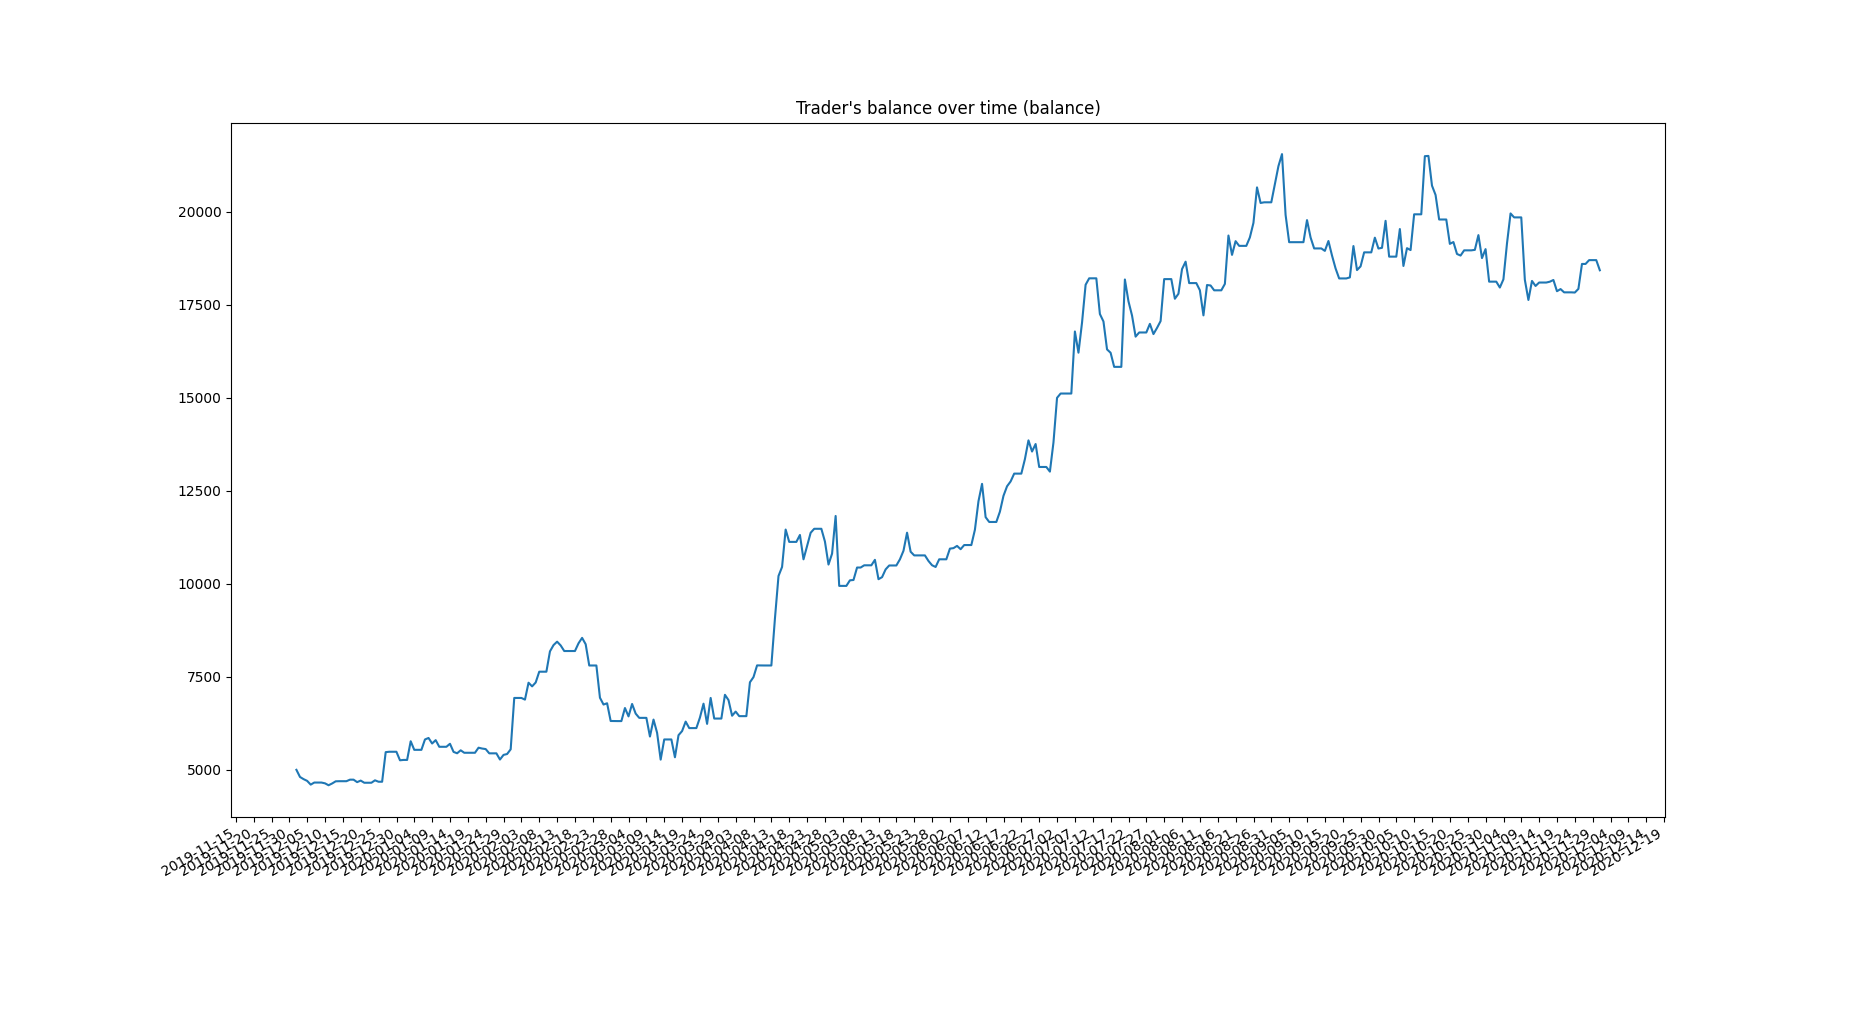
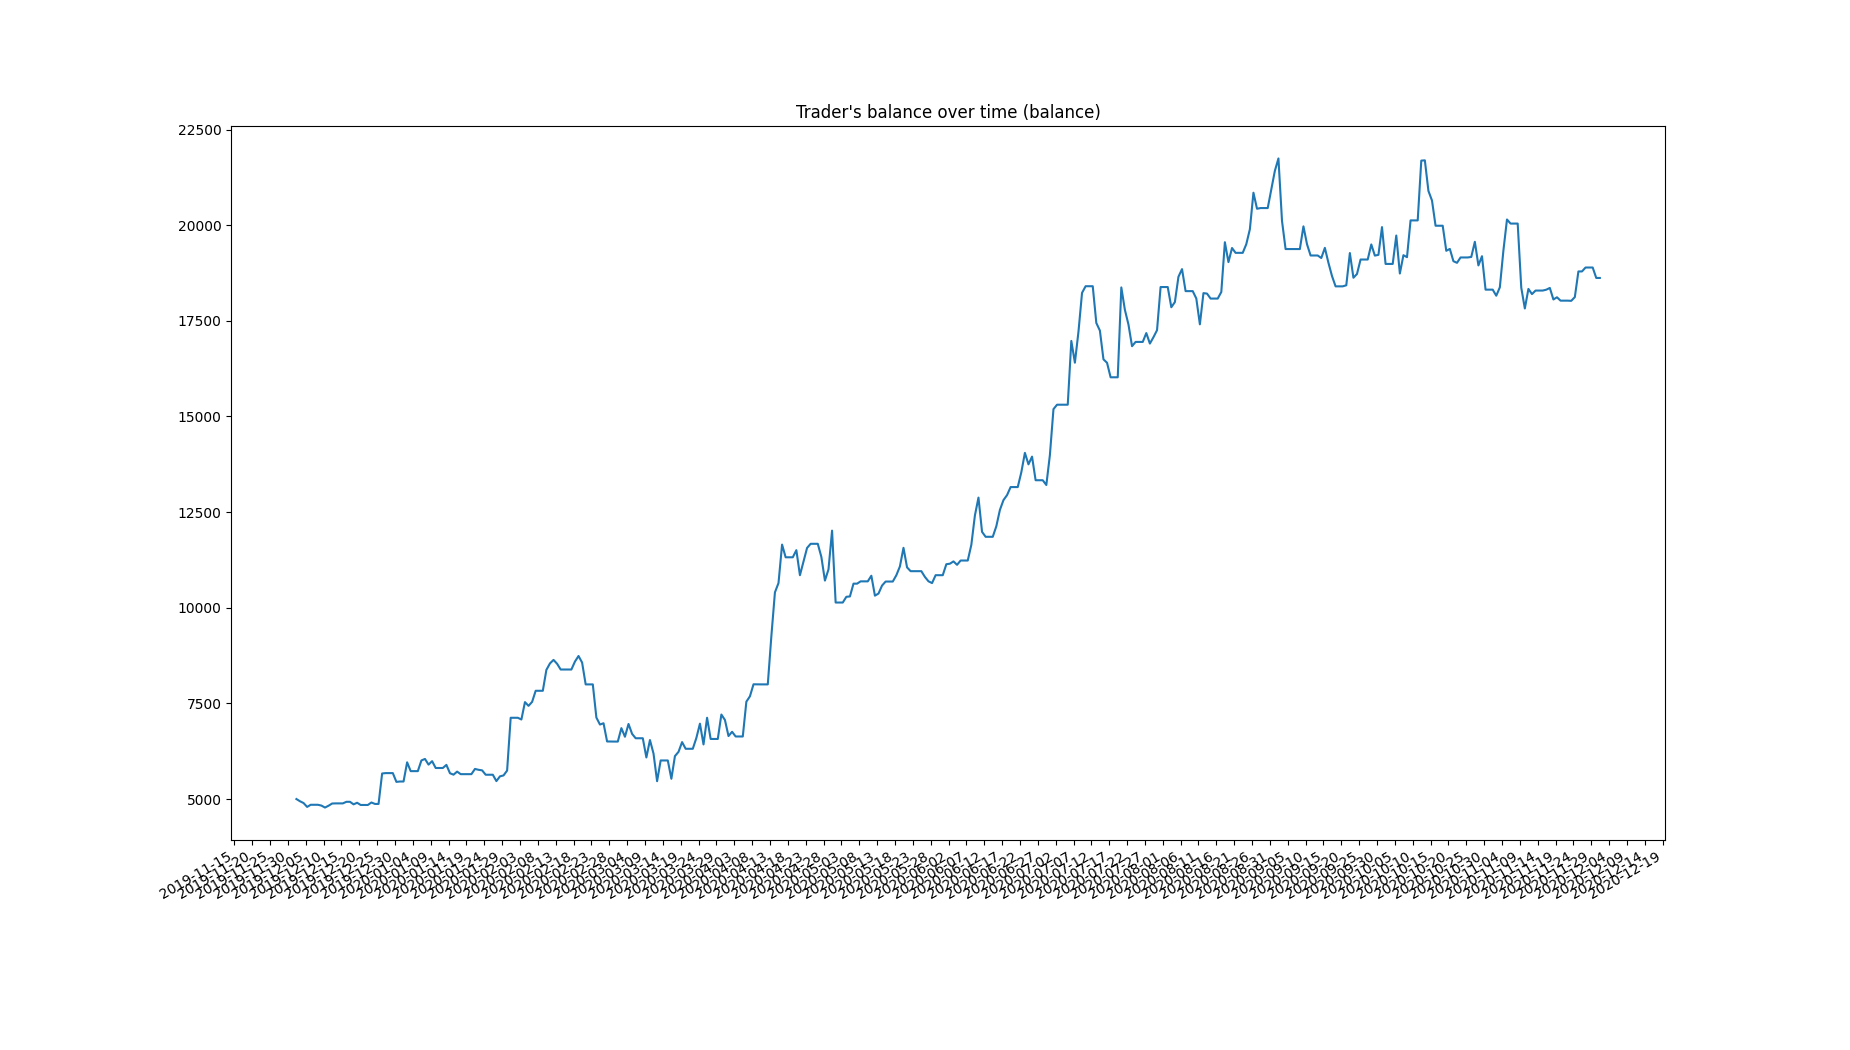
nieuwe grafieken + procenten gefixt

diff --git a/ai_program.py b/ai_program.py
@@ -224,7 +224,7 @@ def main(genomes, config):
         for pair in money:
             dates.append(pair[0])
             moneyz.append(pair[1])
-            percentages.append(math.floor((pair[1]/START_BALANCE * 100)*100)/100)
+            percentages.append((math.floor((pair[1]/START_BALANCE * 100)*100)/100-100))
 
         graph(dates, moneyz, "balance")
         graph(dates, percentages, "percentage")
